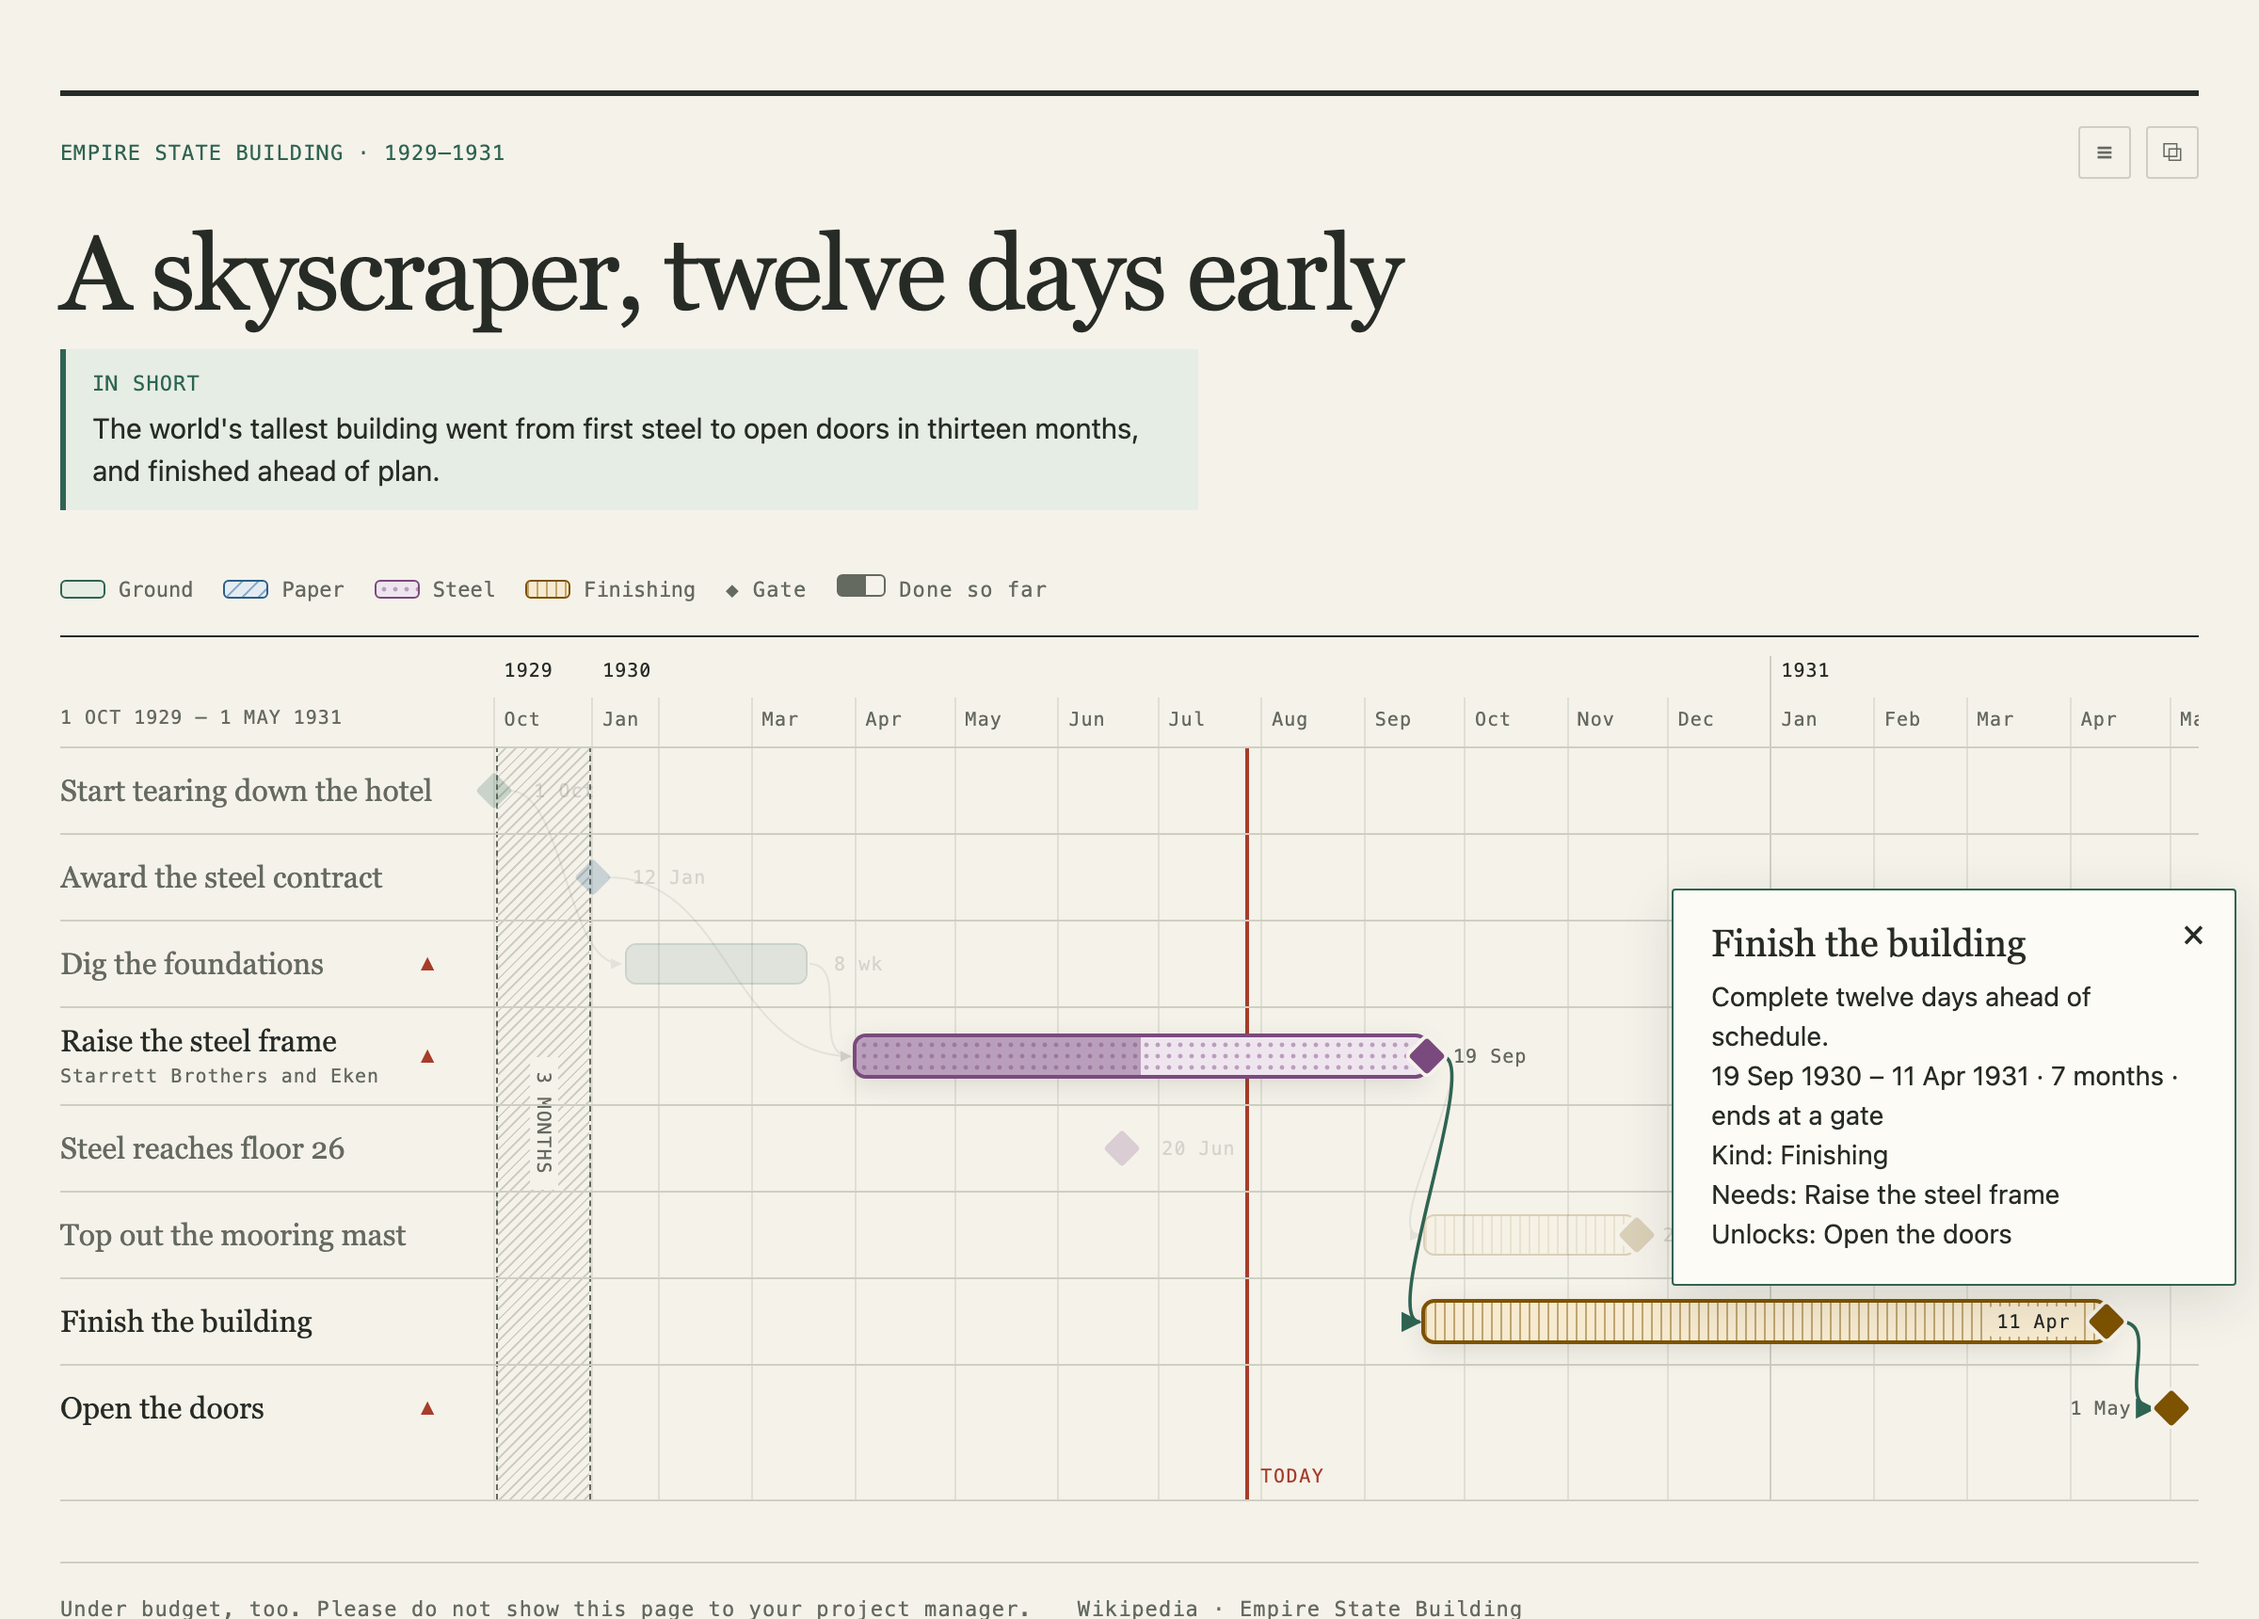
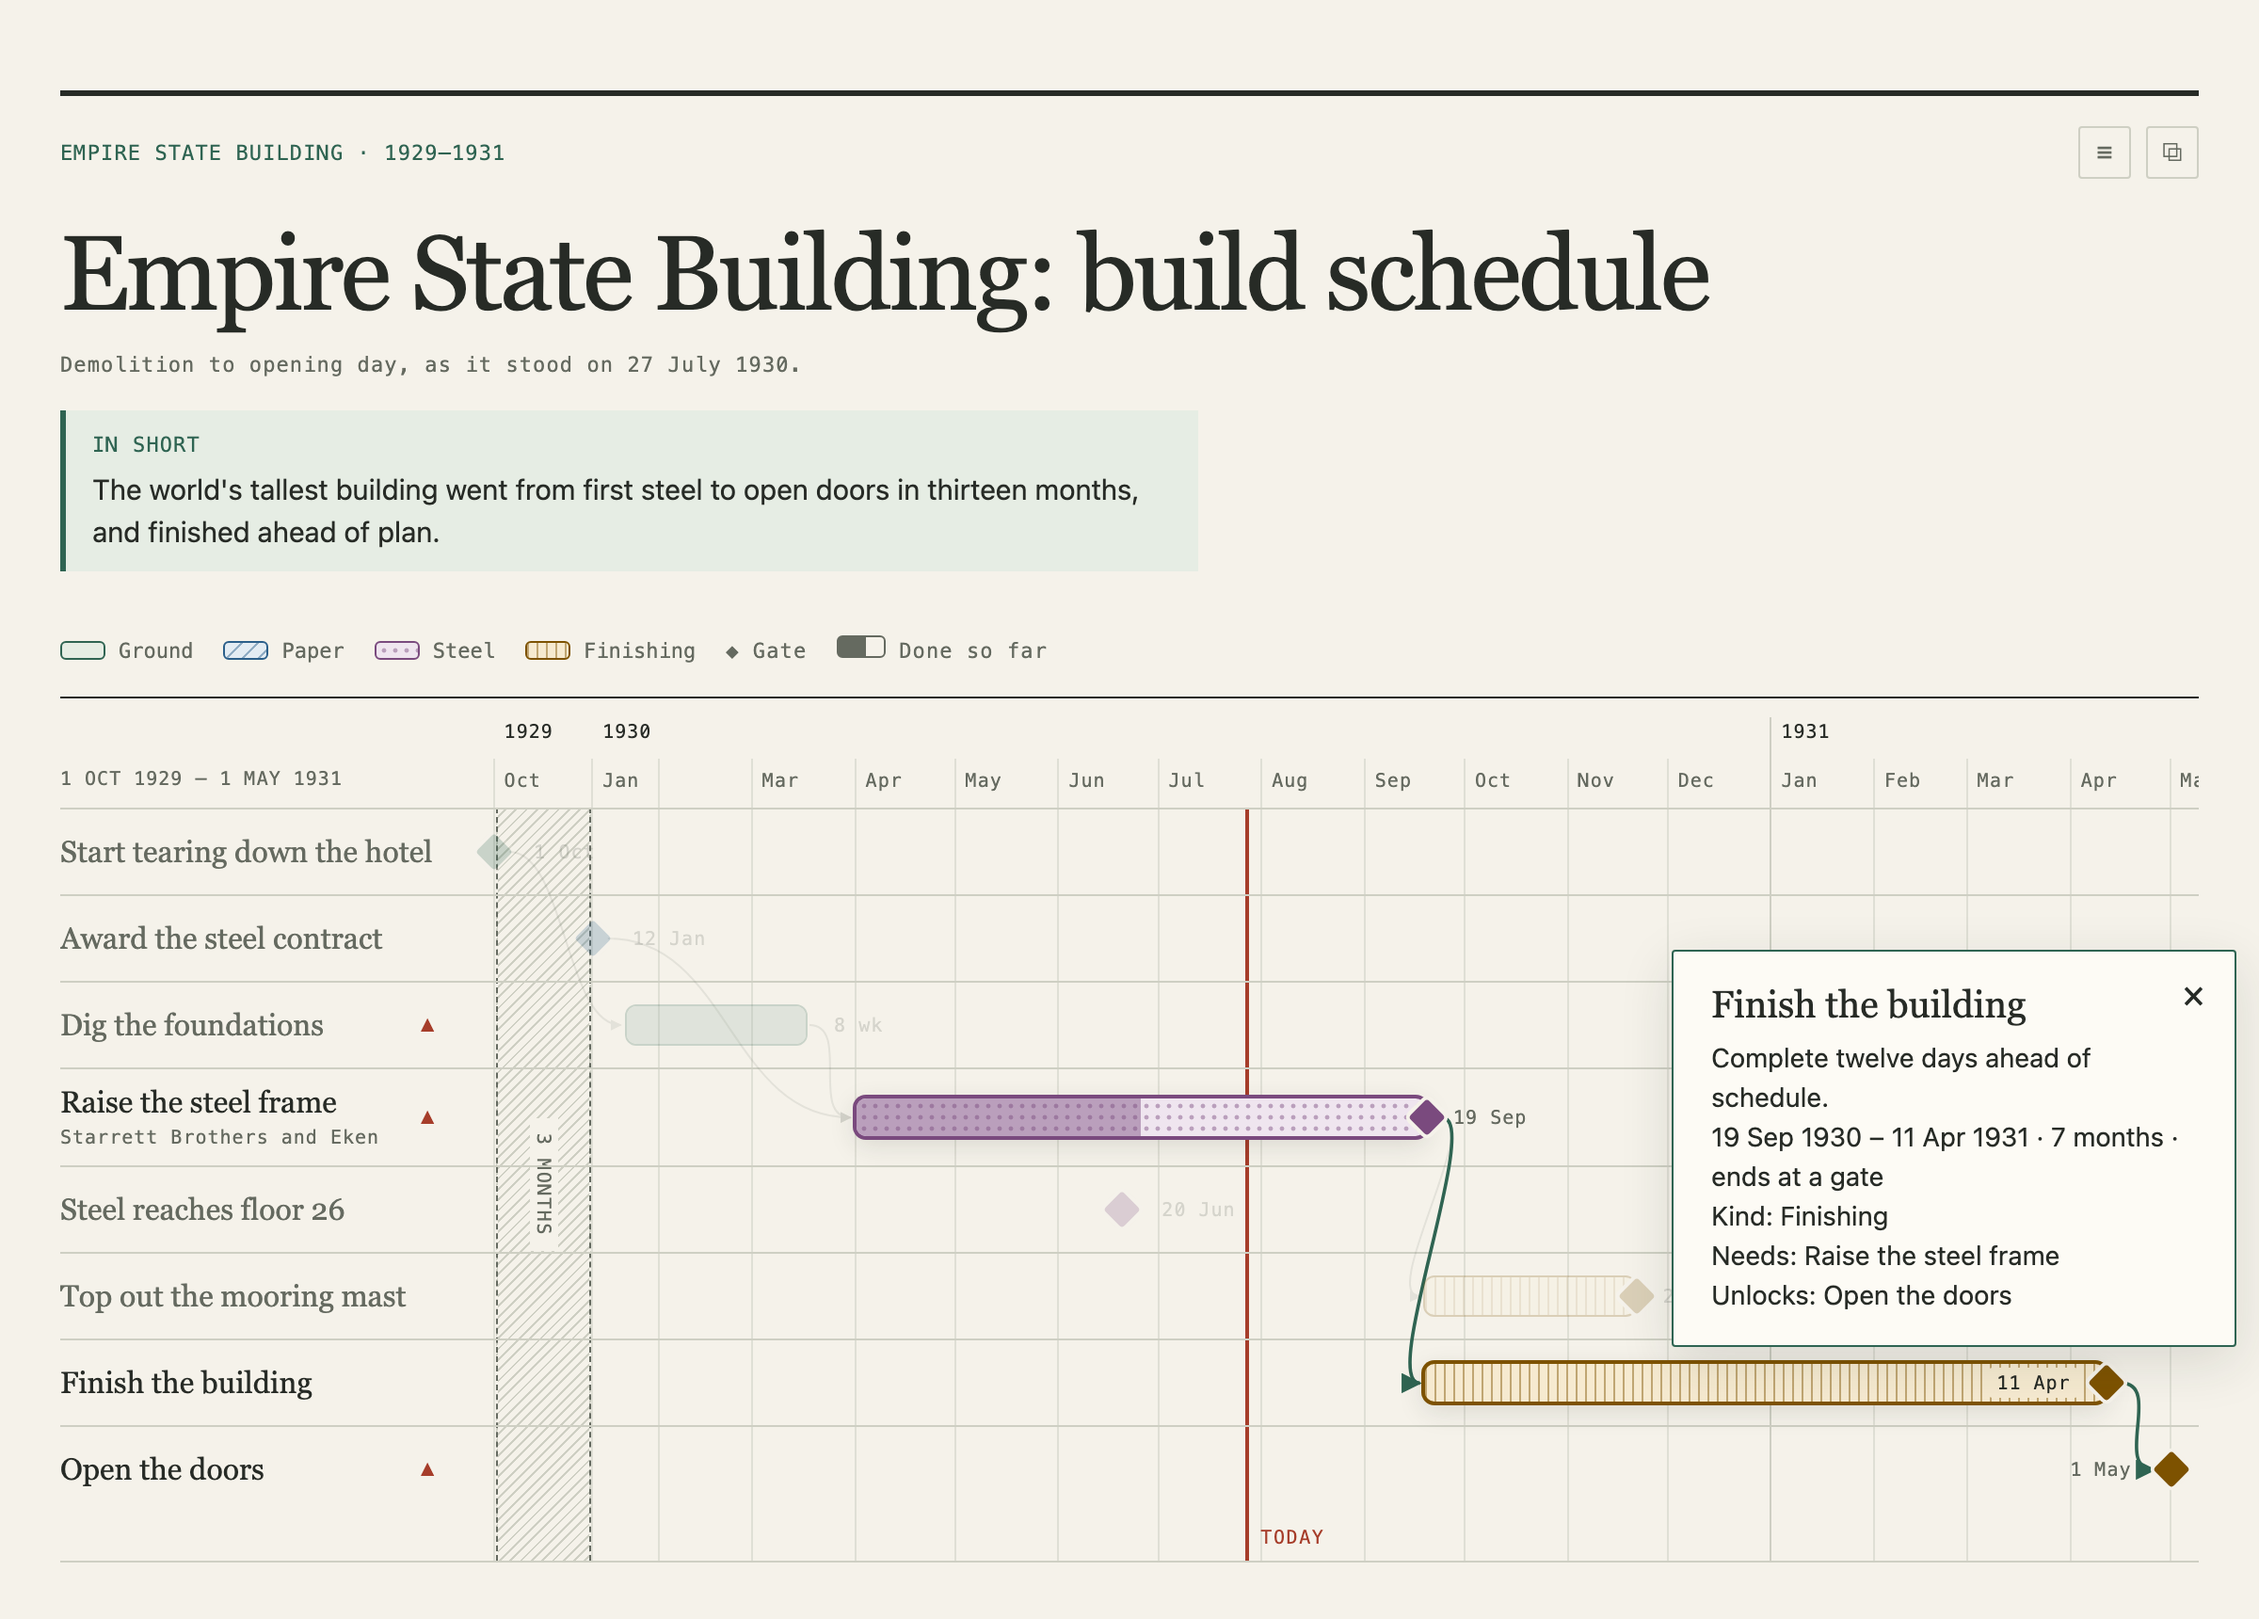
docs(gantt-chart): plain example title and caption

diff --git a/skills/gantt-chart/example.html b/skills/gantt-chart/example.html
@@ -195,7 +195,7 @@ main{max-width:1280px}
 <!-- Replace the JSON below with your own, in the format SKILL.md shows. Change nothing else in this file. -->
 <script id="diagram-data" type="application/json">
 {
-  "title": "A skyscraper, twelve days early",
+  "title": "Empire State Building: build schedule",
   "eyebrow": "Empire State Building · 1929–1931",
   "summary": "The world's tallest building went from first steel to open doors in thirteen months, and finished ahead of plan.",
   "today": "1930-07-27",
@@ -282,7 +282,7 @@ main{max-width:1280px}
       ]
     }
   ],
-  "footnote": "Under budget, too. Please do not show this page to your project manager.",
+  "caption": "Demolition to opening day, as it stood on 27 July 1930.",
   "sources": [
     {"label": "Wikipedia · Empire State Building", "url": "https://en.wikipedia.org/wiki/Empire_State_Building"}
   ]

diff --git a/skills/gantt-chart/SKILL.md b/skills/gantt-chart/SKILL.md
@@ -59,7 +59,7 @@ Plain words, not jargon:
 <!-- example -->
 ```json
 {
-  "title": "A skyscraper, twelve days early",
+  "title": "Empire State Building: build schedule",
   "eyebrow": "Empire State Building · 1929–1931",
   "summary": "The world's tallest building went from first steel to open doors in thirteen months, and finished ahead of plan.",
   "today": "1930-07-27",
@@ -178,7 +178,7 @@ Plain words, not jargon:
       ]
     }
   ],
-  "footnote": "Under budget, too. Please do not show this page to your project manager.",
+  "caption": "Demolition to opening day, as it stood on 27 July 1930.",
   "sources": [
     {
       "label": "Wikipedia · Empire State Building",
